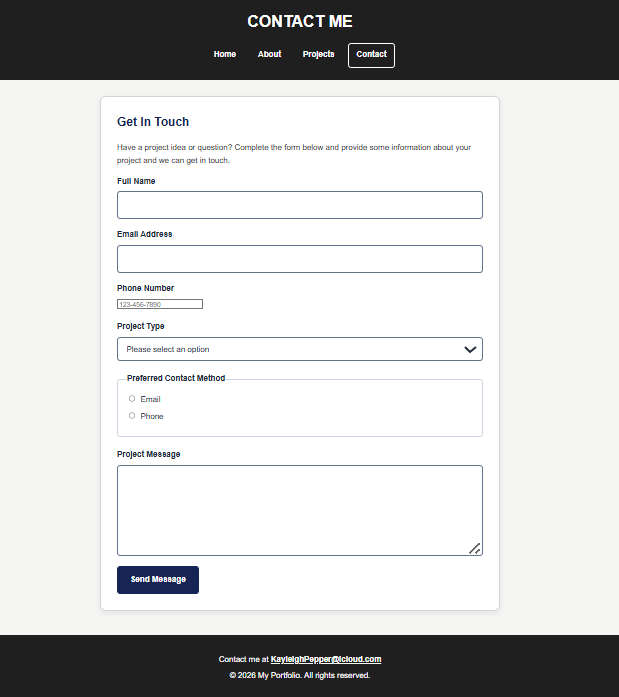
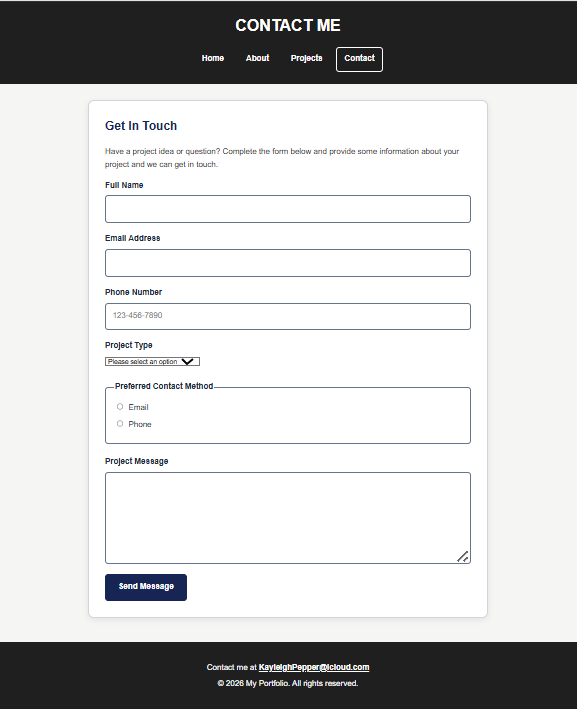
Final changes

diff --git a/portfolio-website/css/styles.css b/portfolio-website/css/styles.css
@@ -1,5 +1,4 @@
-/*
-   Base document styles */
+/*Base document styles */
 
 * {
     box-sizing: border-box;
@@ -24,7 +23,7 @@ body {
 .site-header {
     margin: 0;
     padding: 1.5rem 2rem;
-    background-color: #1F1F1F;;
+    background-color: #1F1F1F;
     color: #ffffff;
     text-align: center;
 }
@@ -66,8 +65,7 @@ body {
     border-color: #ffffff;
 }
 
-/*
-   Main content and hero */
+/*Main content and hero */
 
 main {
     width: min(1100px, 92%);
@@ -77,7 +75,7 @@ main {
 .hero {
     margin: 2rem 0;
     padding: 3rem 2rem;
-    border: 1px solid #D6D6D2;;
+    border: 1px solid #D6D6D2;
     border-radius: 0.75rem;
     background-color: #dbeafe;
     color: #172554;
@@ -162,7 +160,7 @@ main {
     border-radius: 50%;
 }
 
-/* Project cards */
+/*Project cards */
 
 .project-grid {
     display: grid;
@@ -192,13 +190,13 @@ main {
     object-fit: cover;
 }
 
-.project-card h2,
+.project-card h3,
 .project-card p {
     margin-right: 1.25rem;
     margin-left: 1.25rem;
 }
 
-.project-card h2 {
+.project-card h3 {
     margin-top: 1.25rem;
     color: #172554;
 }
@@ -279,6 +277,8 @@ label {
 
 input[type="text"],
 input[type="email"],
+input[type="tel"],
+input[type="radio"]
 select,
 textarea {
     display: block;
@@ -305,7 +305,7 @@ input[type="checkbox"] {
 fieldset {
     margin: 1.5rem 0;
     padding: 1rem;
-    border: 2px solid #cbd5e1;
+    border: 2px solid #64748b;
     border-radius: 0.4rem;
 }
 
@@ -318,6 +318,7 @@ input[type="checkbox"] + label {
     display: inline;
     margin-bottom: 0;
     font-weight: 400;
+    
 }
 
 input:focus,
@@ -372,9 +373,7 @@ button:focus {
     color: #bfdbfe;
 }
 
-/* =========================
-   Responsive layout
-   ========================= */
+/* Responsive layout*/
 
 @media (max-width: 800px) {
     .project-grid {

diff --git a/portfolio-website/projects.html b/portfolio-website/projects.html
@@ -23,7 +23,7 @@
 
     <main>
         <section class="content-section">
-            <h2>Selected Projects</h2>
+            <h3>Selected Projects</h3>
             <p>
                 Here are some examples of websites and digital experiences
                 created using modern web development techniques.
@@ -36,7 +36,7 @@
                     src="images/project1.png"
                     alt="Screenshot of a responsive website displayed on a laptop"
                 >
-                <h2>Responsive Website</h2>
+                <h3>Responsive Website</h3>
                 <p>
                     A responsive website built with semantic HTML and modern CSS
                     techniques for a consistent experience across devices.
@@ -48,7 +48,7 @@
                     src="images/project2.png"
                     alt="Screenshot of a modern e-commerce website product page"
                 >
-                <h2>E-Commerce Website</h2>
+                <h3>E-Commerce Website</h3>
                 <p>
                     A modern e-commerce interface designed with clear navigation,
                     product presentation and accessible visual components.
@@ -60,7 +60,7 @@
                     src="images/project3.png"
                     alt="Screenshot of a portfolio website"
                 >
-                <h2>Creative Portfolio</h2>
+                <h3>Creative Portfolio</h3>
                 <p>
                     A creative portfolio concept combining strong typography,
                     visual storytelling and a responsive layout.

diff --git a/portfolio-website/contact.html b/portfolio-website/contact.html
@@ -60,8 +60,9 @@
                         name="phone"
                         autocomplete="tel"
                         pattern="[0-9]{3}-[0-9]{3}-[0-9]{4}"
-                        placeholder="123-456-7890"
-                    >
+                        placeholder="123-456-7890" 
+                        >
+                </p>
 
                 <p>
                     <label for="project-type">Project Type</label>
@@ -118,7 +119,7 @@
     </main>
 
     <footer class="site-footer">
-        <p>Contact me at <a href="mailto:KayleighPepper@icloud.com"> KayleighPepper@icloud.com</a></p>
+        <p>Contact me at <a href="mailto:KayleighPepper@icloud.com">KayleighPepper@icloud.com</a></p>
         <p>&copy; 2026 My Portfolio. All rights reserved.</p>
     </footer>
 </body>

diff --git a/portfolio-website/index.html b/portfolio-website/index.html
@@ -8,7 +8,6 @@
     <link rel="stylesheet" href="css/styles.css">
 </head>
 <body>
-    <body>
     <header class="site-header">
         <h1>MY PORTFOLIO</h1>
 
@@ -47,4 +46,4 @@
     </footer>
 </body>
 </html>
-</html>
+

diff --git a/README.md b/README.md
@@ -1,87 +1,89 @@
-# Creative Portfolio Website
+Creative Portfolio Website
 
-## Overview
+Overview
+This project is a four-page personal portfolio website created for an aspiring Software Engineer. It showcases my background, technical skills, projects, and provides a contact form for potential clients or employers.
 
-This project is a four-page personal portfolio website created for an aspiring software engineer. The website showcases my background, technical skills, projects and provides a contact form for potential clients or employers to get in touch.
+The website was developed using HTML5 and CSS3, with a focus on semantic structure, accessibility, responsive design, and professional presentation.
 
-The website was developed using **HTML5 and CSS3 only**, with a focus on semantic structure, accessibility, responsive design and professional presentation.
+Issues Found
+The starter code contained several HTML and CSS errors and missing requirements. Major issues included:
 
-## Issues Found
+Generic <div> elements instead of semantic HTML5 elements.
+Missing navigation across the pages.
+Missing descriptive alt text for images.
+Missing skills/data table on the About page.
+Missing third project.
+Incomplete contact form labels and controls.
+Incorrect email input type.
+Missing HTML5 form validation.
+Missing navigation, table, and form styling.
+Poor colour contrast and alignment.
+Limited CSS selectors and missing interactive states.
+Missing responsive design.
+Fixes Implemented
+The HTML was reorganised using semantic elements including <header>, <nav>, <main>, <section>, <article>, and <footer>. A consistent navigation menu was added across all four pages.
 
-The starter code contained several HTML and CSS errors and missing features. Major issues included:
+Images were provided with descriptive alternative text. A structured skills table was added to the About page, and a third project was added to the Projects page.
 
-* Generic `<div>` elements were used instead of semantic HTML elements.
-* Navigation was missing from all pages.
-* Images did not have descriptive `alt` text.
-* The About page was missing a data table.
-* The Projects page was missing a third project.
-* The contact form had missing labels and insufficient input types.
-* Form validation was missing.
-* The email field used the incorrect input type.
-* CSS navigation and table styling were missing.
-* The original design had colour contrast and alignment issues.
-* The CSS had limited selector types and no interactive pseudo-classes.
-* Responsive styling was missing.
+The contact form was completed with labelled controls, text, email and telephone inputs, a project-type dropdown, radio buttons, a textarea, and HTML5 validation attributes.
 
-## Fixes Implemented
+The CSS was reorganised and expanded to include responsive layouts, Flexbox/Grid, navigation, table and form styling, improved typography, colour contrast, spacing, hover states, and keyboard focus states.
 
-The HTML was reorganised using semantic elements including `<header>`, `<nav>`, `<main>`, `<section>`, `<article>` and `<footer>`. A consistent four-link navigation menu was added to all four pages.
+HTML Structure and Semantics
+Each page follows a consistent structure:
 
-Five images were included with descriptive alternative text. A structured skills table was added to the About page, and a third project was added to the Projects page.
+Header → Navigation → Main Content → Footer
 
-The contact form was redesigned with labels, text and email fields, a project-type dropdown, radio buttons and a textarea. HTML5 validation attributes were added to improve data collection and accessibility.
+Semantic sections and articles are used to organise related content and improve document structure, accessibility, and maintainability.
 
-The CSS was reorganised and expanded with responsive layouts, navigation styling, table styling, form styling, hover and focus states, improved colours, typography and spacing.
+CSS Styling Approach
 
-## HTML Structure
+The stylesheet uses element, class, ID, descendant, attribute, and pseudo-class selectors. Flexbox and CSS Grid are used for layout. The CSS box model is demonstrated through margins, padding, borders, and sizing. Media queries provide responsive layouts for smaller screens.
 
-Each page follows a consistent semantic structure:
-
-**Header → Navigation → Main Content → Footer**
-
-Sections and articles are used to organise related content without unnecessary `<div>` elements.
-
-## CSS Approach
-
-The stylesheet uses element, class, ID, descendant, attribute and pseudo-class selectors. Flexbox and Grid are used for layout, while margins, padding and borders provide consistent spacing and visual hierarchy. Hover and focus effects improve interactivity and accessibility.
-
-## Accessibility
+Accessibility Improvements
 
 Accessibility improvements include:
 
-* Descriptive image `alt` text.
-* Labels associated with all form controls.
-* Semantic HTML elements.
-* Keyboard-visible focus states.
-* Accessible colour contrast.
-* Descriptive page titles.
-* Responsive layouts for different screen sizes.
-* Accessible navigation with the current page identified.
+Descriptive image alt text.
+Labels associated with form controls.
+Semantic HTML5 elements.
+Keyboard-visible focus states.
+Improved colour contrast.
+Descriptive page titles and metadata.
+Responsive layouts.
+Accessible navigation with the current page identified using aria-current.
 
-## How to View
+How to View
 
-1. Clone or download the repository.
-2. Open the project folder.
-3. Open `index.html` in a web browser.
-4. Use the navigation menu to visit the About, Projects and Contact pages.
-
+Clone the repository or download the project.
+Open the portfolio-website folder.
+Open index.html in a web browser.
+Use the navigation menu to access the About, Projects, and Contact pages.
 No server or additional software is required.
 
-## Screenshots
+Screenshots
 
-Screenshots demonstrating the completed website are stored in the `screenshots/` folder.
+Screenshots demonstrating the completed website are available in the screenshots/ folder, including:
 
-They include:
+Homepage  - portfolio-website/screenshots/screenshot1.png
 
-* Homepage
-* About page
-* Projects page
-* Contact page
-* Completed contact form
-* Styled skills table
-* Navigation and hover state
+About page and styled skills table - portfolio-website/screenshots/screenshot2.png
 
-## Reflection
+Projects page - portfolio-website/screenshots/screenshot3.png
 
-The main challenge was identifying which parts of the starter code were incomplete and replacing the generic structure with meaningful semantic HTML. I was also contemplating what the actual outcome is supposed to be.  I also had to improve accessibility while keeping the design simple. I solved these issues by working through the requirements systematically, testing each page and organising the CSS into clear sections. The project helped me better understand semantic HTML, responsive CSS, form accessibility and the importance of testing before submission.
+Contact page and HTML form - portfolio-website/screenshots/screenshot4.png
 
+Navigation hover state - portfolio-website/screenshots/NavigationHover.png
+
+Form before improvements - portfolio-website/screenshots/BeforeForm.png
+
+Form after improvements - portfolio-website/screenshots/AfterForm.png
+
+The before/after screenshots demonstrate the improvements made to the contact form.
+
+Skills table - portfolio-website/screenshots/SkillsTable.png
+
+Reflection
+The main challenge was identifying the errors and missing requirements in the starter code while ensuring that the final website remained accessible, responsive, and consistent. I approached the debugging process systematically by reviewing each page against the project requirements, testing the HTML structure and form controls, and refining the CSS as issues were identified.
+
+This project strengthened my understanding of semantic HTML, CSS layouts, responsive design, form accessibility, and the importance of testing and validating code before submission.
